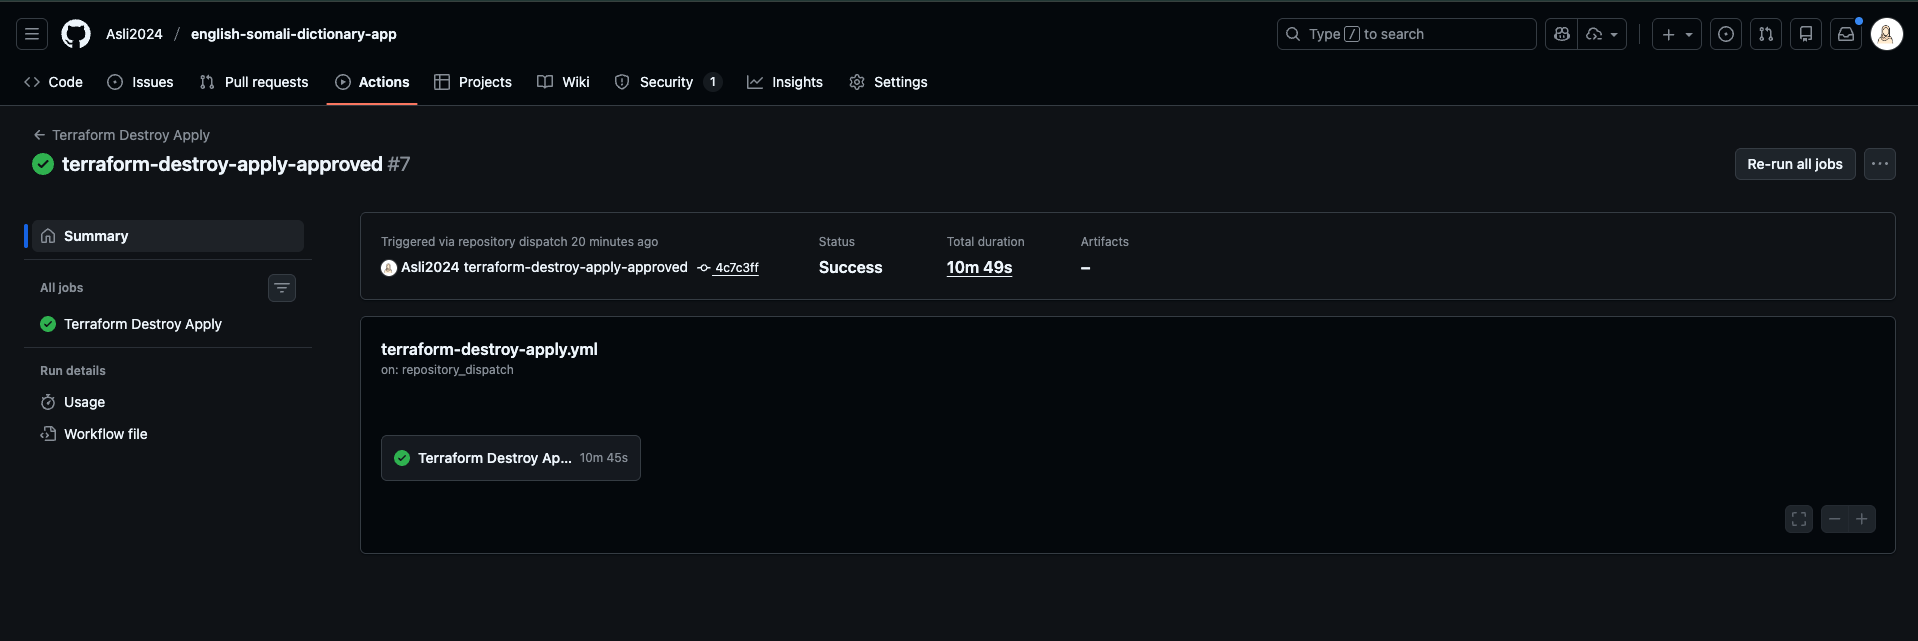
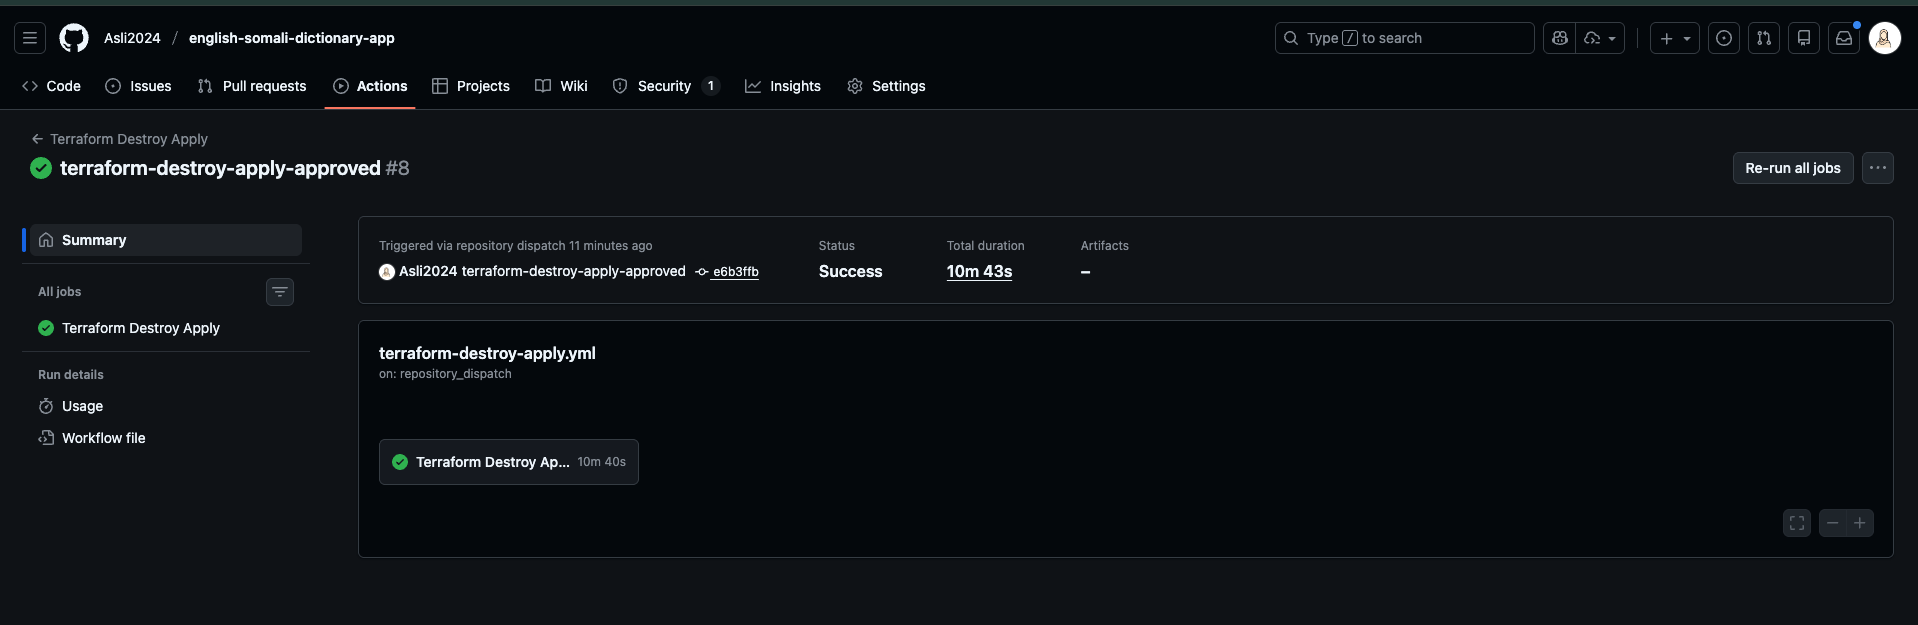
Updated README.md

diff --git a/README.md b/README.md
@@ -34,9 +34,7 @@ To run the English Somali Dictionary app locally using Docker:
 3. **Access the API at:**
    [http://localhost:8000/](http://localhost:8000/)
 
-4. **Watch the demo:**
-
-   [Watch Local Demo](https://www.loom.com/share/06e87610f41940f89303b1f0bb9ee2bb)
+4. **Watch the demo:** [Watch Local Demo](https://www.loom.com/share/06e87610f41940f89303b1f0bb9ee2bb)
 
 
 ## Live Deployment
@@ -176,13 +174,13 @@ All workflows are located in `.github/workflows/`.
 [Terraform Plan and Approve Run](https://github.com/Asli2024/english-somali-dictionary-app/actions/runs/20582733051): ![Terraform Plan and Approve Run](images/terraform-plan-and-approve.png)
 
 
-[Terraform Apply Run](https://github.com/Asli2024/english-somali-dictionary-app/actions/runs/20581670999): ![Terraform Apply Run](images/terraform-apply.png)
+[Terraform Apply Run](https://github.com/Asli2024/english-somali-dictionary-app/actions/runs/20582786161): ![Terraform Apply Run](images/terraform-apply.png)
 
 
-[Terraform Destroy Plan and Approve](https://github.com/Asli2024/english-somali-dictionary-app/actions/runs/20582256286): ![Terraform Destroy Plan and Approve](images/terraform-destroy-plan-and-approve.png)
+[Terraform Destroy Plan and Approve](https://github.com/Asli2024/english-somali-dictionary-app/actions/runs/20583340179): ![Terraform Destroy Plan and Approve](images/terraform-destroy-plan-and-approve.png)
 
 
-[Terraform Destroy Apply](https://github.com/Asli2024/english-somali-dictionary-app/actions/runs/20582272373): ![Terraform Destroy Apply](images/terraform-destroy-apply.png)
+[Terraform Destroy Apply](https://github.com/Asli2024/english-somali-dictionary-app/actions/runs/20583351760): ![Terraform Destroy Apply](images/terraform-destroy-apply.png)
 
 ---
 ## Contributing
